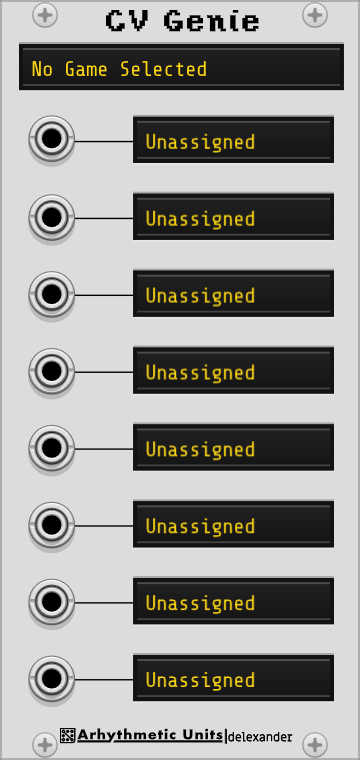
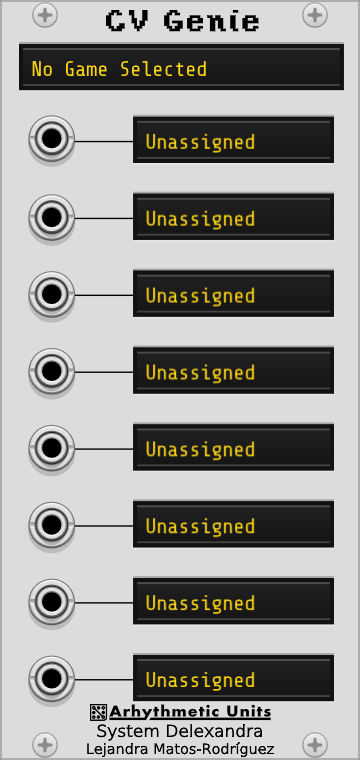
Prepare 2.2.1 release with current CV Genie attribution

Changed region(s): [[0.1528, 0.9079, 0.7944, 0.9987]]

diff --git a/whitepaper/racknes.tex b/whitepaper/racknes.tex
@@ -18,7 +18,7 @@
 \usepackage[colorlinks=true,linkcolor=blue!40!black,citecolor=blue!40!black,urlcolor=blue!40!black]{hyperref}
 \definecolor{ink}{HTML}{214E70}
 \definecolor{pale}{HTML}{F1F5F8}
-\hypersetup{pdftitle={RackNES: A Voltage-Controlled NES Emulator as a Musical Instrument},pdfauthor={Christian Kauten},pdfsubject={Retrospective instrument design and implementation report},pdfkeywords={NES, emulation, chiptune, modular synthesis, VCV Rack, musical interfaces}}
+\hypersetup{pdftitle={RackNES: A Voltage-Controlled NES Emulator as a Musical Instrument},pdfauthor={Christian Kauten and Lejandra Matos-Rodr\'iguez},pdfsubject={Retrospective instrument design and implementation report},pdfkeywords={NES, emulation, chiptune, modular synthesis, VCV Rack, musical interfaces}}
 \setlength{\columnsep}{0.25in}
 \setlength{\headheight}{14pt}
 \setlength{\emergencystretch}{1.5em}
@@ -30,14 +30,15 @@
 \pagestyle{fancy}
 \fancyhf{}
 \fancyhead[L]{\small\textsc{RackNES}}
-\fancyhead[R]{\small Technical report / September 2026}
+\fancyhead[R]{\small Technical report / October 2026}
 \fancyfoot[C]{\thepage}
 \newcommand{\code}[1]{\texttt{#1}}
 \newcommand{\clip}{\operatorname{clip}}
 \newcommand{\ceil}[1]{\left\lceil #1\right\rceil}
 \title{\textbf{RackNES: A Voltage-Controlled NES Emulator\\as a Musical Instrument}}
-\author{Christian Kauten\\Arhythmetic Units\\\small\href{mailto:arhythmetic.units@gmail.com}{arhythmetic.units@gmail.com}}
-\date{September 30, 2026\quad /\quad Technical report, manuscript version 1}
+\author{Christian Kauten\\Arhythmetic Units\\\small\href{mailto:arhythmetic.units@gmail.com}{arhythmetic.units@gmail.com}
+\and Lejandra Matos-Rodr\'iguez\\System Delexandra\\\small\href{mailto:system@delexandra.com}{system@delexandra.com}}
+\date{October 14, 2026\quad /\quad Technical report, manuscript version 2}
 
 \begin{document}
 \twocolumn[\maketitle
@@ -78,7 +79,8 @@ runs an emulated CPU, picture processing unit (PPU), and audio processing unit
 (APU), and presents the resulting video and five audio voices. Patch signals
 can operate two controllers, change execution rate, request save and restore
 operations, and suspend execution. CV Genie, an expander contributed by
-\code{@anlexmatos}, supplies a further interface to selected memory locations.
+Lejandra Matos-Rodr\'iguez (\code{@anlexmatos}), supplies a further interface
+to selected memory locations.
 The instrument's vocabulary therefore includes actions such as changing the
 rate at which a game runs, returning to a saved execution state, and changing
 a music driver's current song or sequence position.
@@ -169,7 +171,7 @@ architecture, including the NTSC CPU--PPU clock relationship and nonlinear
 audio mixing~\cite{nesclock,nesmixer}. These are useful reference points for
 understanding the system being modeled; they do not certify an emulator's
 fidelity. RackNES adapts Amish Naidu and contributors' SimpleNES core~\cite{simplenes},
-through the author's \emph{nes-py} project~\cite{nespy}. Its audio path uses
+through Christian Kauten's \emph{nes-py} project~\cite{nespy}. Its audio path uses
 Shay Green's (blargg's) \emph{Nes\_Snd\_Emu} and \emph{Blip\_Buffer}
 libraries~\cite{green}.
 Blip\_Buffer represents sound through timed amplitude changes and converts
@@ -550,10 +552,10 @@ what a control changes, what a snapshot preserves, and how emulated events
 become host audio.
 
 \section*{Acknowledgments and Availability}
-CV Genie was contributed by \code{@anlexmatos}; its memory-map source credits
-the Data Crystal reverse-engineering wiki. The implementation builds on
+CV Genie's memory-map source credits the Data Crystal reverse-engineering wiki.
+The implementation builds on
 Amish Naidu and contributors' SimpleNES~\cite{simplenes}, adapted through
-the author's nes-py~\cite{nespy}; Shay Green's (blargg's) Nes\_Snd\_Emu,
+Christian Kauten's nes-py~\cite{nespy}; Shay Green's (blargg's) Nes\_Snd\_Emu,
 Blip\_Buffer, and nes\_ntsc~\cite{green,ntsc}; Ren\'e Nyffenegger's
 cpp-base64~\cite{base64}; and VCV Rack~\cite{rack}. Source, manuals,
 and the report are available from

diff --git a/manual/CVGenie/sections/troubleshooting.tex b/manual/CVGenie/sections/troubleshooting.tex
@@ -25,8 +25,12 @@ byte value is meaningful in the current game scene.
 \end{description}
 
 \subsection{Sources and credits}
-CV Genie was developed by \textbf{@anlexmatos}. The embedded maps credit
-Data Crystal and the Metroid disassembly. The
+CV Genie was developed by \textbf{Lejandra Matos-Rodr\'iguez} of
+\textbf{System Delexandra}
+(\href{https://github.com/anlexmatos}{\texttt{@anlexmatos}}).
+Contact: \href{mailto:system@delexandra.com}{system@delexandra.com}.
+
+The embedded maps credit Data Crystal and the Metroid disassembly. The
 \href{https://github.com/Arhythmetic-Units/RackNES/blob/master/docs/game-maps.md}{mapping contributor reference}
 records sources and range decisions. The shipped assignments live in
 \texttt{src/GameMaps.hpp}; operating behavior follows \texttt{src/CVGenie.cpp}

diff --git a/manual/RackNES/sections/troubleshooting.tex b/manual/RackNES/sections/troubleshooting.tex
@@ -40,6 +40,7 @@ RackNES builds on Amish Naidu and contributors' SimpleNES; Shay Green's
 Nyffenegger's cpp-base64. The
 \href{https://github.com/Arhythmetic-Units/RackNES/blob/master/LICENSING.md}{license guide}
 links the bundled component notices and license texts. CV Genie was developed
-by \textbf{@anlexmatos}. The companion
+by \textbf{Lejandra Matos-Rodr\'iguez} of \textbf{System Delexandra}
+(\href{https://github.com/anlexmatos}{\texttt{@anlexmatos}}). The companion
 \href{https://github.com/Arhythmetic-Units/RackNES/releases/latest/download/CVGenie.pdf}{CV Genie manual}
 covers its eight input rows and memory maps.

diff --git a/manual/CVGenie/manual.tex b/manual/CVGenie/manual.tex
@@ -1,9 +1,10 @@
 \documentclass[11pt,a4paper]{article}
 \newcommand{\manualname}{CV Genie}
-\newcommand{\manualversion}{2.2.0}
+\newcommand{\manualversion}{2.2.1}
 \usepackage{arhythmetic-manual}
 \begin{document}
-\manualcover{CVGenie}{Eight CV inputs for game memory in RackNES}
+\manualcover{CVGenie}{Eight CV inputs for game memory in RackNES\\[6pt]
+Module developed by Lejandra Matos-Rodr\'iguez\\System Delexandra}
 \input{sections/quick-start}
 \input{sections/panel}
 \input{sections/voltage}

diff --git a/src/GameMaps.hpp b/src/GameMaps.hpp
@@ -1,4 +1,6 @@
 // Memory map data from https://datacrystal.romhacking.net
+// Original CV Genie maps and mapping interface developed by
+// Lejandra Matos-Rodríguez (System Delexandra).
 // Copyright 2020 Christian Kauten
 //
 // This program is free software: you can redistribute it and/or modify

diff --git a/manual/RackNES/manual.tex b/manual/RackNES/manual.tex
@@ -1,6 +1,6 @@
 \documentclass[11pt,a4paper]{article}
 \newcommand{\manualname}{RackNES}
-\newcommand{\manualversion}{2.2.0}
+\newcommand{\manualversion}{2.2.1}
 \usepackage{arhythmetic-manual}
 \begin{document}
 \manualcover{RackNES}{A voltage-controlled Nintendo Entertainment System}

diff --git a/src/CVGenie.cpp b/src/CVGenie.cpp
@@ -1,4 +1,5 @@
 // Memory map data from https://datacrystal.romhacking.net
+// CV Genie originally developed by Lejandra Matos-Rodríguez (System Delexandra).
 // Copyright 2020 Christian Kauten
 //
 // This program is free software: you can redistribute it and/or modify

diff --git a/README.md b/README.md
@@ -52,7 +52,8 @@ through its own effects chain.
 ## CV Genie
 
 Go beyond the controllers. CV Genie is a Game Genie-inspired input expander,
-developed by [@anlexmatos][anlexmatos], that writes CV into game memory.
+developed by [Lejandra Matos-Rodríguez][anlexmatos] of **System Delexandra**,
+that writes CV into game memory.
 Its eight rows expose named game elements from ten built-in maps, including
 **Super Mario Bros.**, **The Legend of Zelda**, **Mega Man**, **Castlevania**,
 **Contra**, **Metroid**, **Ninja Gaiden**, and **Tetris**. See the CV Genie
@@ -182,13 +183,13 @@ same BibTeX entry.
 
 ```bibtex
 @techreport{kauten2026racknes,
-  author      = {Kauten, Christian},
+  author      = {Kauten, Christian and Matos-Rodr{\'i}guez, Lejandra},
   title       = {{RackNES}: A Voltage-Controlled {NES} Emulator as a Musical Instrument},
   institution = {Arhythmetic Units},
   year        = {2026},
-  month       = sep,
+  month       = oct,
   type        = {Technical report},
-  note        = {Manuscript version 1, dated September 30, 2026; repository manuscript},
+  note        = {Manuscript version 2, dated October 14, 2026; repository manuscript},
   url         = {https://github.com/Arhythmetic-Units/RackNES/tree/master/whitepaper},
 }
 ```
@@ -215,8 +216,9 @@ for component licenses and attribution.
 
 ## Contributors
 
-Many thanks to [@anlexmatos][anlexmatos] for developing the **CV Genie**
-expander module.
+**CV Genie** was developed by [Lejandra Matos-Rodríguez][anlexmatos] of
+**System Delexandra**, including the original Super Mario Bros. and The Legend
+of Zelda memory maps. Contact: [system@delexandra.com](mailto:system@delexandra.com).
 
 ## License
 

diff --git a/CHANGELOG.md b/CHANGELOG.md
@@ -171,3 +171,15 @@
     empty emulator, and preserve the current display when a ROM load fails.
 -   Update the manuals to reflect these fixes and add focused SDK-backed
     regression checks.
+
+### 2.2.1 (Unreleased)
+
+-   Credit CV Genie developer Lejandra Matos-Rodríguez of System Delexandra
+    across the README, manuals, source attribution, and original game maps.
+-   Update both CV Genie panel themes with the developer's current name and
+    affiliation, and refresh the manual's production screenshot.
+-   Add Lejandra as a technical-report coauthor and software contributor in
+    the citation metadata. Publish manuscript version 2, dated October 14,
+    2026, preserving the report's historical implementation account.
+-   Update both manuals to version 2.2.1. Plugin and module identities, saved
+    patches, emulation, and CV processing remain unchanged.

diff --git a/whitepaper/README.md b/whitepaper/README.md
@@ -1,8 +1,9 @@
 # RackNES: A Voltage-Controlled NES Emulator as a Musical Instrument
 
-A technical report by Christian Kauten (Arhythmetic Units), manuscript version 1,
-dated September 30, 2026. It describes RackNES's foundations, architecture, musical
-interaction, and implementation lessons for future engineers and researchers.
+A technical report by Christian Kauten (Arhythmetic Units) and Lejandra
+Matos-Rodríguez (System Delexandra), manuscript version 2, dated October 14,
+2026. It describes RackNES's foundations, architecture, musical interaction,
+and implementation lessons for future engineers and researchers.
 A dated mapper addendum records the subsequent AxROM, MMC2, and MMC3 integrations
 separately from the pinned historical implementation account.
 It records the development implementation through `2cea414`, reviewed at

diff --git a/manual/README.md b/manual/README.md
@@ -89,7 +89,8 @@ The panel logo outlines in `../res/ArhythmeticUnits.svg` come from Fourier's
 `src/rack_extensions/panel_artwork.hpp` at revision
 `12ac3236e332b7d0a01b2d750fa07a0849132341`. Keep the four runtime panel SVGs
 aligned with that source; captures inherit their artwork directly. Retain the
-CV Genie collaborator credit alongside the brand. Preserve the visual-asset
+CV Genie developer credit for Lejandra Matos-Rodríguez (System Delexandra)
+alongside the brand. Preserve the visual-asset
 license terms in [LICENSING.md](../LICENSING.md).
 The white paper is an independent publication and is not changed by these builds.
 

diff --git a/docs/game-maps.md b/docs/game-maps.md
@@ -31,6 +31,10 @@ would not meet the narrower admission criteria for new maps.
 
 ### Existing Maps: IDs 0--1
 
+Lejandra Matos-Rodríguez (System Delexandra,
+[@anlexmatos](https://github.com/anlexmatos)) implemented the original
+Super Mario Bros. and The Legend of Zelda maps as part of CV Genie.
+
 Super Mario Bros. and The Legend of Zelda retain all 53 and 55 entries,
 respectively, with unchanged order, names, byte endpoints, and trigger modes.
 Their inherited catalog does not identify precise ROM revisions. Sources:
